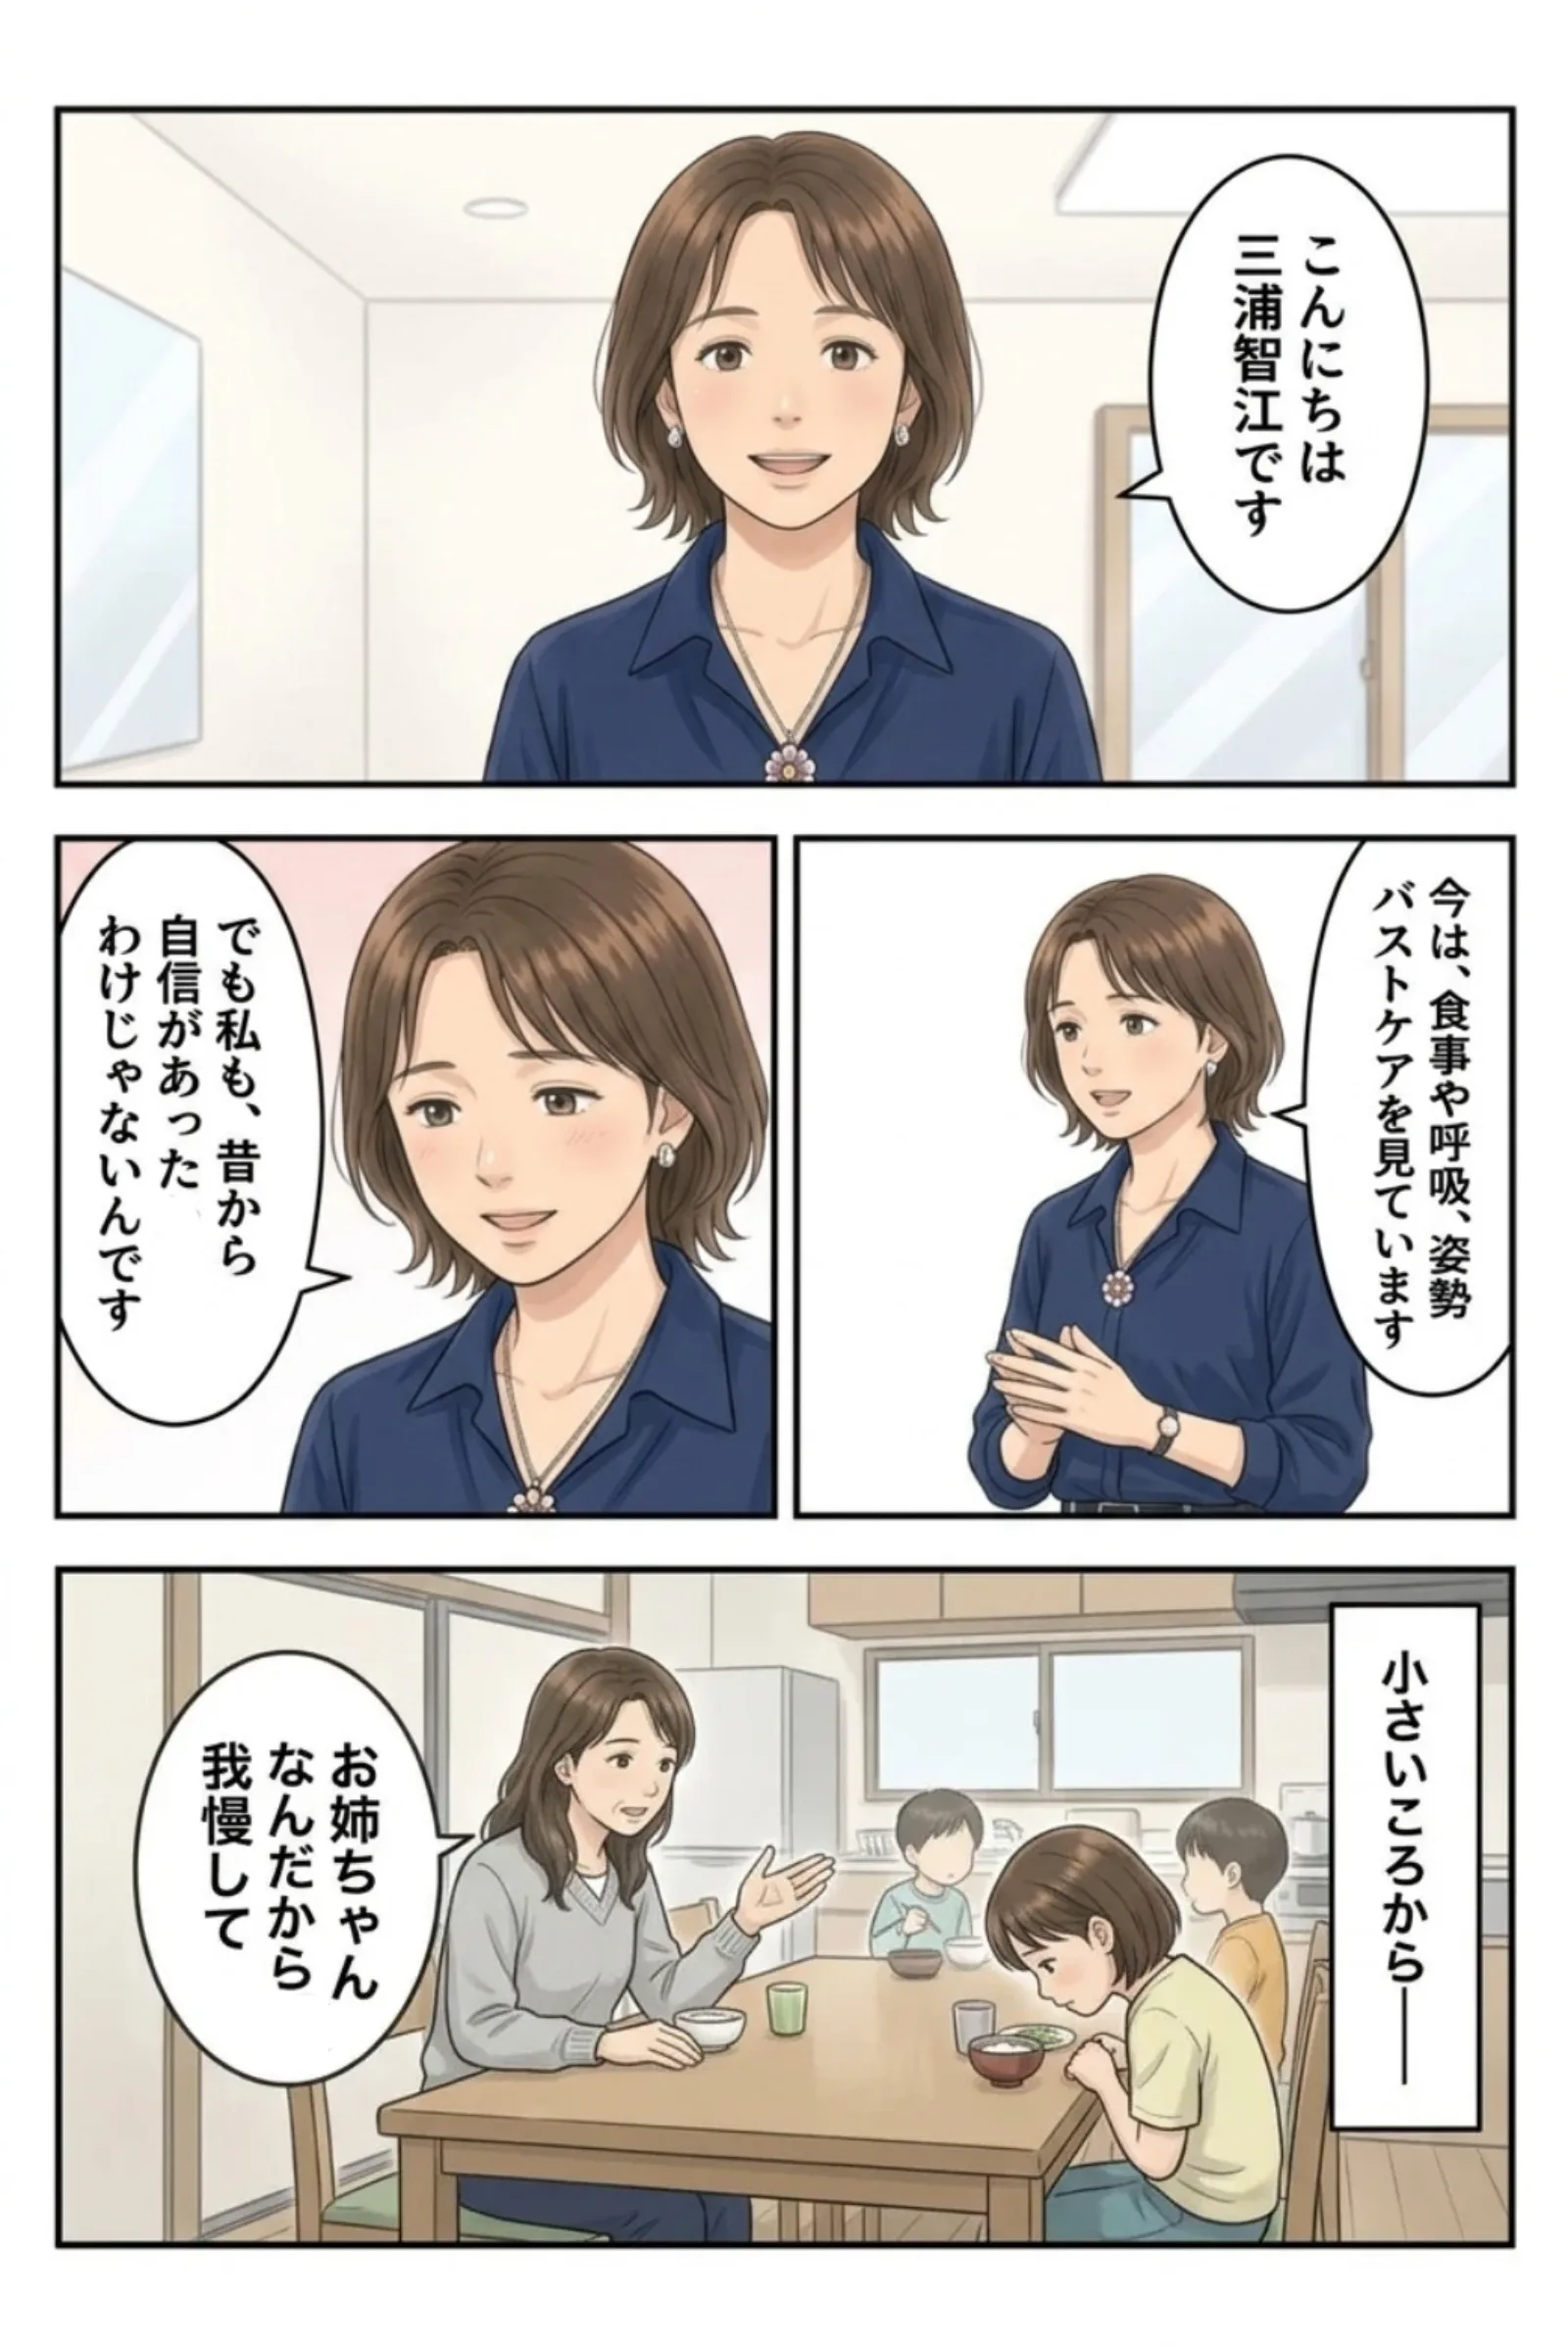
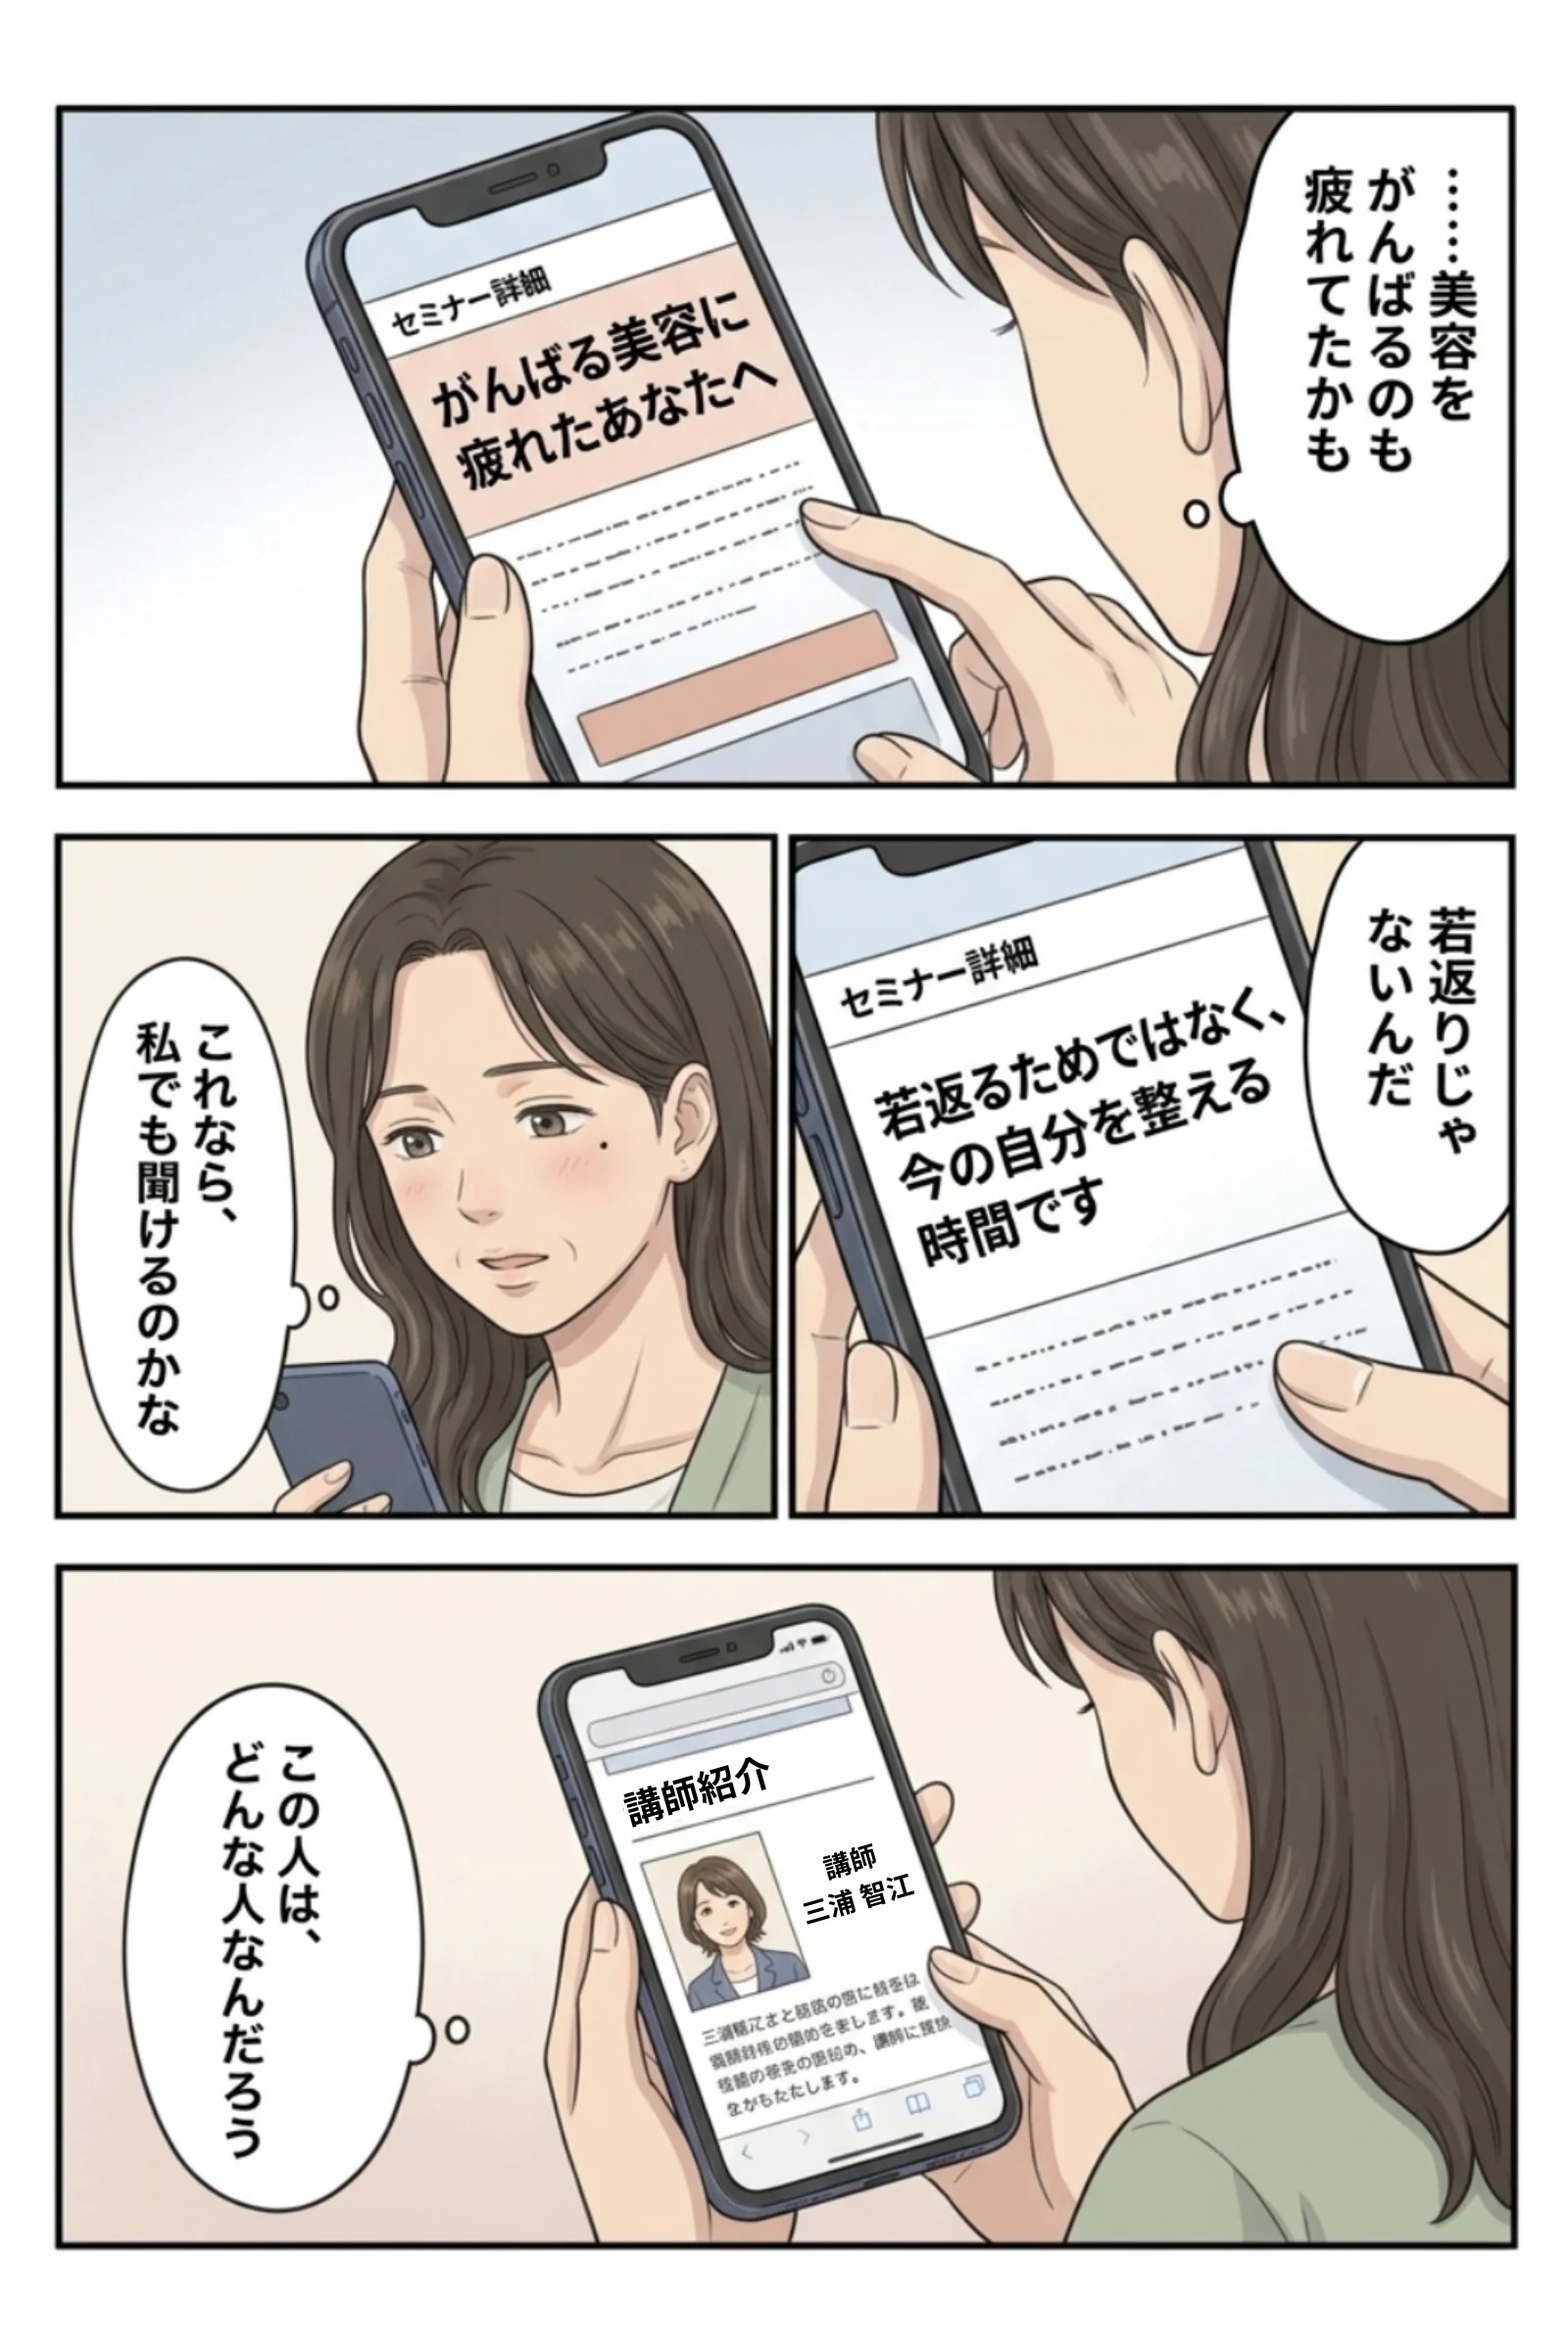
Update again LP with revised manga and CTA

diff --git a/again/index.html b/again/index.html
@@ -19,7 +19,10 @@
       <img class="hero-image" src="assets/hero.webp" width="1672" height="941" alt="もう若くないから、と自分を諦めていませんか。女性の美しさを取り戻す、もう一度私を好きになる120分" fetchpriority="high" decoding="async">
     </section>
 
-    <section class="cta-band" aria-label="特別価格の案内">
+    <section class="cta-band" aria-label="特別価格と開催日程の案内">
+      <p class="cta-kicker">4日程から選べるオンラインセミナー</p>
+      <p class="cta-schedule-summary">開催日：○/○・○/○・○/○・○/○</p>
+      <p class="cta-helper">※正式な日時は確定後に差し替えます。フォーム内で参加日を選べます。</p>
       <div class="cta-mini-offer" aria-label="特別関係者割引価格">
         <p class="cta-deadline">6月26日(金)23:59まで</p>
         <p class="cta-price-line">
@@ -29,7 +32,8 @@
         </p>
         <p class="cta-price-note">特別関係者割引</p>
       </div>
-      <a class="cta-button" href="#" aria-disabled="true">特別価格で申し込む</a>
+      <a class="cta-button" href="#final-cta">日程を選んで申し込む</a>
+      <p class="cta-form-note">フォームURLが確定したら、このボタンに設定します。</p>
     </section>
 
     <section id="manga" class="manga-reader" aria-label="漫画本編">
@@ -53,23 +57,37 @@
       <img src="assets/manga/18.webp" width="1600" height="2400" alt="漫画本編 18ページ目" loading="lazy" decoding="async">
       <img src="assets/manga/19.webp" width="1600" height="2400" alt="漫画本編 19ページ目" loading="lazy" decoding="async">
       <img src="assets/manga/20.webp" width="1600" height="2400" alt="漫画本編 20ページ目" loading="lazy" decoding="async">
+      <img src="assets/manga/21.webp" width="1600" height="2400" alt="漫画本編 21ページ目" loading="lazy" decoding="async">
     </section>
 
     <section class="message-card" aria-label="セミナー案内メッセージ">
-      <p class="message-lead">「もう若くないから」と、自分を諦めていませんか？</p>
+      <p class="message-eyebrow">漫画を読み終えたあなたへ</p>
+      <p class="message-lead">「もう若くないから」と、自分を終わらせなくていい。</p>
       <h2>女性の美しさを取り戻す<br>もう一度、私を好きになる120分</h2>
       <p>食事・姿勢・呼吸・バストケアを通して、今の自分を整えていく時間です。</p>
-      <p>年齢と戦うのではなく、これからの自分をもう一度大事にする一歩として、まずは120分のセミナーでお会いしましょう。</p>
+      <p>好きな服を着る。笑顔で写真に写る。自分の身体をもう一度、大事に見つめる。</p>
+      <p>年齢と戦うのではなく、これからの自分を整えていく一歩として、まずは120分のセミナーでお会いしましょう。</p>
     </section>
 
-    <section class="closing-card" aria-label="最終案内">
+    <section id="final-cta" class="closing-card" aria-label="最終案内">
       <p class="closing-label">6月26日(金)23:59まで</p>
+      <h2 class="closing-heading">特別価格のご案内</h2>
+      <div class="closing-schedule" aria-label="開催日程">
+        <p class="closing-schedule-title">開催日程</p>
+        <ul>
+          <li>○月○日（○）○○:○○〜○○:○○</li>
+          <li>○月○日（○）○○:○○〜○○:○○</li>
+          <li>○月○日（○）○○:○○〜○○:○○</li>
+          <li>○月○日（○）○○:○○〜○○:○○</li>
+        </ul>
+        <p class="closing-schedule-note">※正式な日時は確定後に差し替えます。フォーム内で参加日を選べます。</p>
+      </div>
       <p class="closing-title">
         <span class="closing-regular-price">通常価格 4,000円</span>
         <span class="price-arrow" aria-hidden="true">→</span>
         <span>特別価格 1,000円</span>
       </p>
-      <a class="cta-button" href="#" aria-disabled="true">特別価格で申し込む</a>
+      <a class="cta-button" href="#" aria-disabled="true">日程を選んで申し込む</a>
       <p class="closing-text">フォームURLが確定したら、このボタンに設定します。</p>
     </section>
   </main>

diff --git a/again/style.css b/again/style.css
@@ -65,12 +65,50 @@ body {
 .cta-band,
 .closing-card {
   margin: 18px 0;
-  padding: 18px;
+  padding: clamp(18px, 4vw, 26px);
   border: 1px solid var(--line);
   border-radius: 8px;
   background: rgba(255, 255, 255, 0.94);
   text-align: center;
   box-shadow: 0 8px 24px rgba(43, 33, 26, 0.08);
+}
+
+.cta-kicker,
+.cta-schedule-summary,
+.cta-helper,
+.cta-form-note {
+  margin: 0;
+}
+
+.cta-kicker {
+  color: var(--accent);
+  font-size: clamp(15px, 4vw, 19px);
+  font-weight: 900;
+  line-height: 1.5;
+}
+
+.cta-schedule-summary {
+  margin-top: 4px;
+  color: var(--ink);
+  font-size: clamp(18px, 5vw, 25px);
+  font-weight: 900;
+  line-height: 1.45;
+}
+
+.cta-helper,
+.cta-form-note {
+  color: var(--muted);
+  font-size: clamp(12px, 3.4vw, 14px);
+  font-weight: 700;
+  line-height: 1.6;
+}
+
+.cta-helper {
+  margin-top: 2px;
+}
+
+.cta-form-note {
+  margin-top: 12px;
 }
 
 .closing-card p {
@@ -88,7 +126,7 @@ body {
 }
 
 .cta-mini-offer {
-  margin: 0 auto 16px;
+  margin: 14px auto 16px;
   padding: 12px 14px 14px;
   border: 2px solid rgba(217, 79, 43, 0.22);
   border-radius: 8px;
@@ -209,7 +247,15 @@ body {
   margin: 0;
 }
 
+.message-eyebrow {
+  color: var(--accent);
+  font-size: clamp(13px, 3.5vw, 16px);
+  font-weight: 900;
+  line-height: 1.5;
+}
+
 .message-lead {
+  margin-top: 6px !important;
   color: var(--ink);
   font-size: clamp(18px, 4.6vw, 25px);
   font-weight: 900;
@@ -241,13 +287,57 @@ body {
 .closing-label {
   display: inline-block;
   margin-bottom: 10px !important;
-  padding: 5px 14px;
+  padding: 7px 18px;
   border-radius: 999px;
   background: #fff0ea;
   color: var(--accent);
-  font-size: clamp(15px, 4.2vw, 20px);
+  font-size: clamp(17px, 5vw, 24px);
   font-weight: 900;
   line-height: 1.35;
+}
+
+.closing-heading {
+  margin: 0 0 12px;
+  color: var(--ink);
+  font-size: clamp(22px, 6vw, 30px);
+  font-weight: 900;
+  line-height: 1.4;
+}
+
+.closing-schedule {
+  width: min(100%, 580px);
+  margin: 0 auto 16px;
+  padding: 14px;
+  border-radius: 8px;
+  background: #fffaf6;
+  border: 1px solid var(--line);
+}
+
+.closing-schedule-title {
+  color: var(--accent);
+  font-size: clamp(16px, 4.4vw, 20px);
+  font-weight: 900;
+  line-height: 1.5;
+}
+
+.closing-schedule ul {
+  display: grid;
+  gap: 4px;
+  margin: 8px 0 0;
+  padding: 0;
+  list-style: none;
+  color: var(--ink);
+  font-size: clamp(15px, 4vw, 18px);
+  font-weight: 800;
+  line-height: 1.55;
+}
+
+.closing-schedule-note {
+  margin-top: 8px !important;
+  color: var(--muted);
+  font-size: clamp(12px, 3.4vw, 14px);
+  font-weight: 700;
+  line-height: 1.6;
 }
 
 .closing-title {
@@ -302,7 +392,7 @@ body {
   .message-card,
   .closing-card {
     margin: 12px 10px;
-    padding: 14px;
+    padding: 16px 14px;
   }
 
   .manga-reader {
